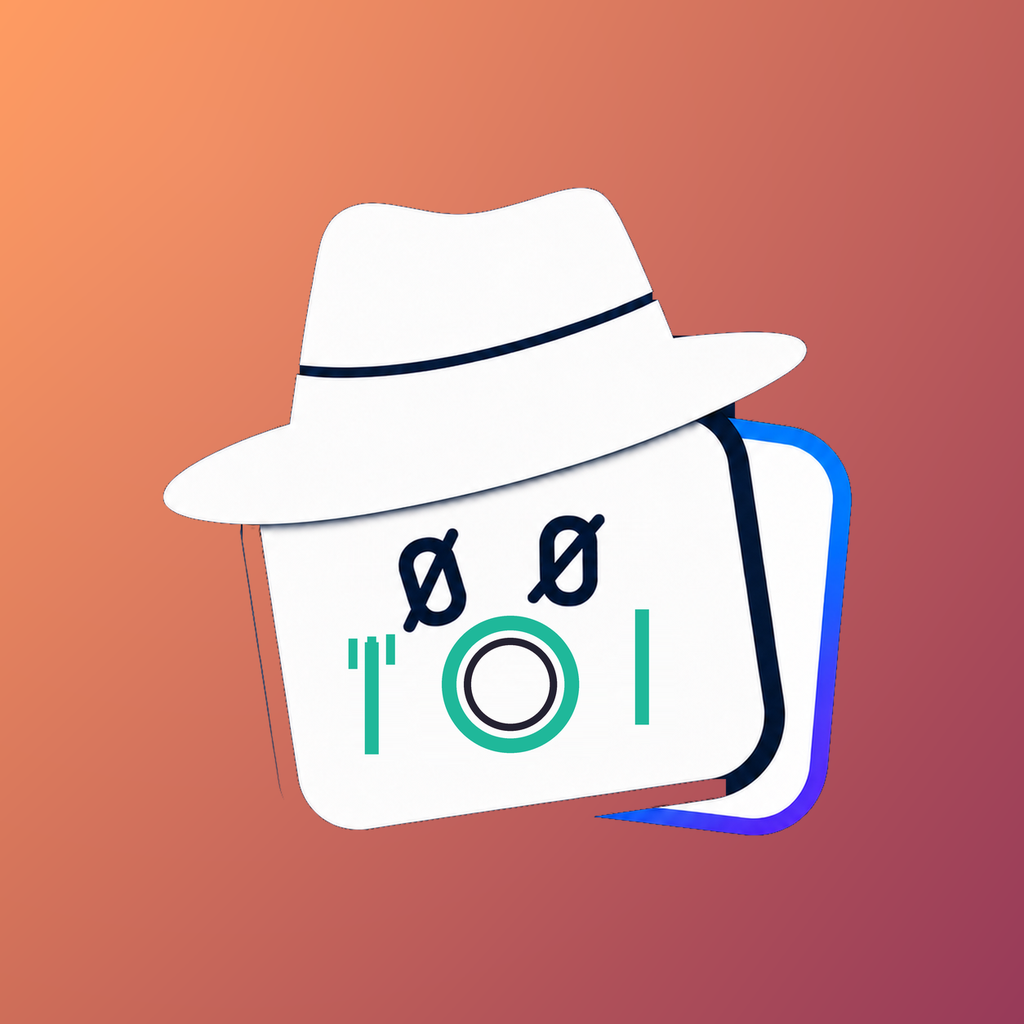
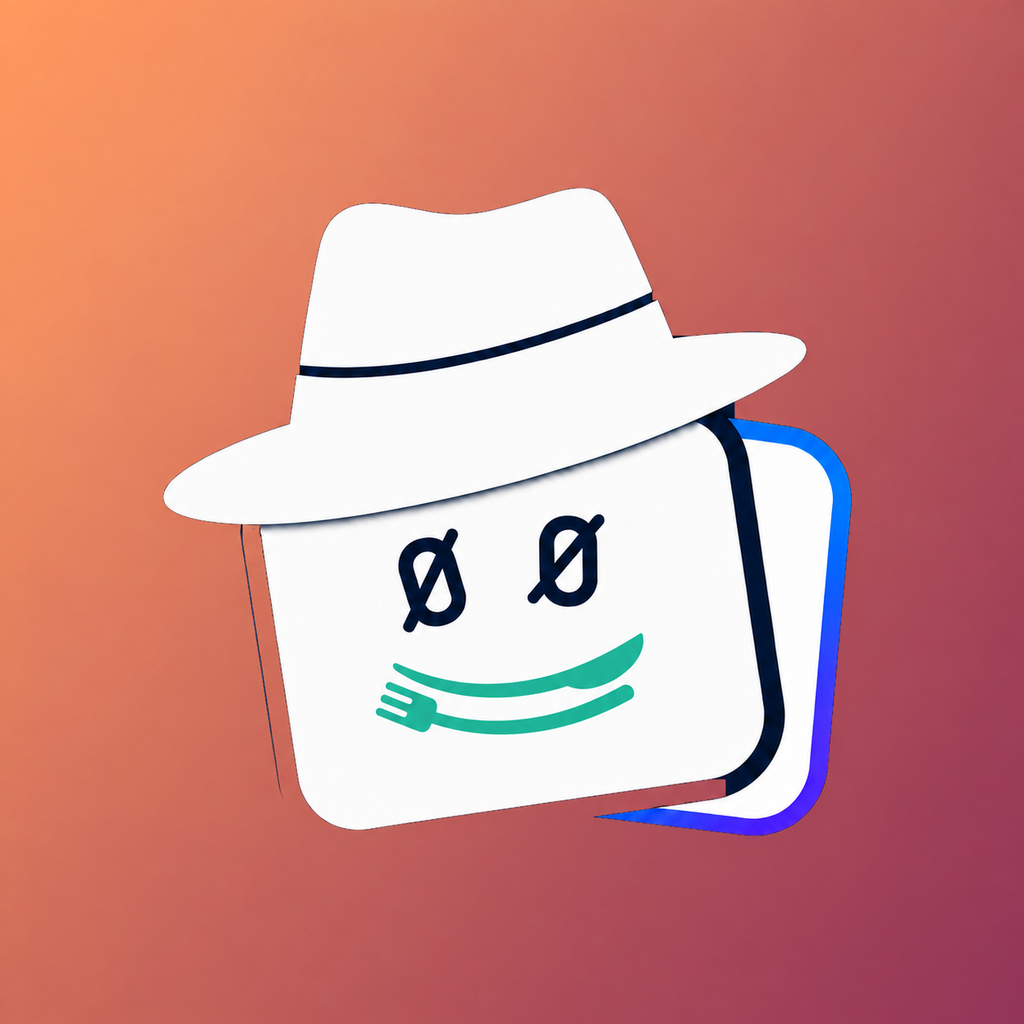
Adopt stacked cutlery smile branding

Changed region(s): [[0.3125, 0.5938, 0.6562, 0.75], [0.6875, 0.75, 0.7188, 0.7812], [0.625, 0.7812, 0.6562, 0.8125]]

diff --git a/docs/brand/generate.py b/docs/brand/generate.py
@@ -1,115 +1,35 @@
 #!/usr/bin/env python3
-"""Derive the 00Food identity from Pedro Morais's 00Widget master artwork.
+"""Generate application assets from the approved 00Food master artwork.
 
-Only the chart-shaped mouth is replaced. Keep the source masters in this
-directory so the resulting app icon and wordmarks can be regenerated exactly.
+The stacked cutlery smile is baked into the source masters so regeneration
+preserves the approved icon and its transparent companion exactly.
 """
 
 from __future__ import annotations
 
 from pathlib import Path
 
-from PIL import Image, ImageDraw, ImageFilter, ImageFont, ImageOps
+from PIL import Image, ImageDraw, ImageFont, ImageOps
 
 
 ROOT = Path(__file__).resolve().parents[2]
 BRAND = ROOT / "docs" / "brand"
 SOURCES = BRAND / "sources"
-ICON_SOURCE = SOURCES / "00widget-app-icon-master.png"
-TRANSPARENT_SOURCE = SOURCES / "00widget-mark-transparent-master.png"
+ICON_SOURCE = SOURCES / "00food-app-icon-master.png"
+TRANSPARENT_SOURCE = SOURCES / "00food-mark-transparent-master.png"
 APP_ICON = ROOT / "ios" / "Resources" / "App" / "Assets.xcassets" / "AppIcon.appiconset" / "Icon-1024.png"
 ASSETS = ROOT / "ios" / "Resources" / "App" / "Assets.xcassets"
 
 NAVY = (6, 21, 42)
 BLUE = (31, 139, 255)
 BLUE_DARK = (9, 104, 232)
-TEAL = (31, 184, 154)
 WHITE = (248, 251, 255)
-# 00Widget owns the deep-navy icon field. 00Food uses a brighter violet field
-# so the sibling apps are distinguishable on an iPhone home screen.
-ICON_VIOLET_TOP = (245, 146, 88)
-ICON_VIOLET_BOTTOM = (151, 58, 89)
 FONT = "/System/Library/Fonts/Avenir Next.ttc"
-SCALE = 4
-
-
-def teal_mouth_mask(image: Image.Image) -> Image.Image:
-    """Find only the teal bars; the hat, eyes, card and blue edge stay exact."""
-    mask = Image.new("L", image.size, 0)
-    source = image.convert("RGBA").load()
-    target = mask.load()
-    for y in range(738, 950):
-        for x in range(405, 845):
-            red, green, blue, alpha = source[x, y]
-            if alpha > 50 and green > red + 55 and blue > red + 35 and green > blue - 15:
-                target[x, y] = 255
-    return mask.filter(ImageFilter.MaxFilter(13))
-
-
-def erase_mouth(image: Image.Image, mask: Image.Image) -> Image.Image:
-    """Reconstruct the pale card surface from clean pixels on each side."""
-    result = image.convert("RGBA").copy()
-    pixels = result.load()
-    covered = mask.load()
-    for y in range(738, 950):
-        x = 405
-        while x < 845:
-            if not covered[x, y]:
-                x += 1
-                continue
-            start = x
-            while x < 845 and covered[x, y]:
-                x += 1
-            end = x
-            left = pixels[start - 1, y]
-            right = pixels[end, y]
-            width = end - start + 1
-            for offset, px in enumerate(range(start, end), 1):
-                fraction = offset / width
-                pixels[px, y] = tuple(round(a * (1 - fraction) + b * fraction) for a, b in zip(left, right))
-    return result
-
-
-def food_plate(image: Image.Image) -> Image.Image:
-    high = image.resize((image.width * SCALE, image.height * SCALE), Image.Resampling.LANCZOS)
-    drawing = ImageDraw.Draw(high, "RGBA")
-
-    def point(x: float, y: float) -> tuple[int, int]:
-        return round(x * SCALE), round((y - (x - 450) * 0.115) * SCALE)
-
-    def line(points, fill, width):
-        drawing.line([point(x, y) for x, y in points], fill=fill, width=width * SCALE, joint="curve")
-
-    # A small plate and cutlery replace the 00Widget chart mouth.
-    cx, cy = point(625, 858)
-    outer = 84 * SCALE
-    inner = 57 * SCALE
-    drawing.ellipse((cx-outer, cy-outer, cx+outer, cy+outer), outline=(*TEAL, 255), width=18*SCALE)
-    drawing.ellipse((cx-inner, cy-inner, cx+inner, cy+inner), outline=(*NAVY, 215), width=9*SCALE)
-    line([(455, 787), (455, 924)], (*TEAL, 255), 17)
-    for x in (432, 455, 478):
-        line([(x, 780), (x, 817)], (*TEAL, 255), 11)
-    line([(786, 785), (786, 926)], (*TEAL, 255), 17)
-    return high.resize(image.size, Image.Resampling.LANCZOS)
 
 
 def save_png(image: Image.Image, path: Path, *, opaque: bool = False) -> None:
     path.parent.mkdir(parents=True, exist_ok=True)
     image.convert("RGB" if opaque else "RGBA").save(path, optimize=True)
-
-
-def icon_background(size: tuple[int, int]) -> Image.Image:
-    background = Image.new("RGBA", size)
-    pixels = background.load()
-    width, height = size
-    for y in range(height):
-        for x in range(width):
-            mix = min(1.0, max(0.0, 0.58 * x / width + 0.42 * y / height))
-            glow = max(0.0, 1.0 - ((x - width * 0.2) ** 2 + (y - height * 0.15) ** 2) ** 0.5 / (width * 0.9))
-            color = tuple(round(top * (1 - mix) + bottom * mix + 13 * glow)
-                          for top, bottom in zip(ICON_VIOLET_TOP, ICON_VIOLET_BOTTOM))
-            pixels[x, y] = (*color, 255)
-    return background
 
 
 def wordmark(*, dark_surface: bool, transparent_background: bool = False) -> Image.Image:
@@ -138,14 +58,12 @@ def wordmark(*, dark_surface: bool, transparent_background: bool = False) -> Ima
 
 
 def main() -> None:
-    icon_source = Image.open(ICON_SOURCE).convert("RGBA")
-    transparent_source = Image.open(TRANSPARENT_SOURCE).convert("RGBA")
-    if icon_source.size != (1254, 1254) or transparent_source.size != icon_source.size:
-        raise ValueError("The 00Widget masters must be 1254×1254 and aligned")
-    mask = teal_mouth_mask(transparent_source)
-    transparent = food_plate(erase_mouth(transparent_source, mask))
-    icon = icon_background(icon_source.size)
-    icon.alpha_composite(transparent)
+    icon = Image.open(ICON_SOURCE).convert("RGBA")
+    transparent = Image.open(TRANSPARENT_SOURCE).convert("RGBA")
+    if icon.size != (1254, 1254) or transparent.size != icon.size:
+        raise ValueError("The 00Food masters must be 1254×1254 and aligned")
+    if transparent.getchannel("A").getextrema() != (0, 255):
+        raise ValueError("The transparent master must contain a transparent background")
 
     save_png(icon, BRAND / "app-icon-master.png", opaque=True)
     save_png(transparent, BRAND / "mark-transparent-master.png")

diff --git a/docs/brand/sources/README.md b/docs/brand/sources/README.md
@@ -1,0 +1,15 @@
+# 00Food master artwork
+
+`00food-app-icon-master.png` is the approved option B (the second preview), copied directly from the built-in image generation tool's output. It is the authoritative artwork for the app icon and the in-app mark; the generator only resizes it.
+
+`00food-mark-transparent-master.png` is its transparent companion, also produced with the built-in image generation tool. It is used for the reusable transparent marks. The original 00Widget masters remain as historical references under `00widget-LICENSE`. The two 00Food masters are covered by `../LICENSE`.
+
+## Icon prompt
+
+Use case: precise-object-edit. Asset type: preview-only app icon concept. Input image is the edit target: existing 00Food icon. Edit ONLY the plate, fork, and knife mouth area below the eyes. Remove the plate and existing vertical utensils, cleanly restoring the pale white card surface underneath. Keep the original coral gradient background, exact white fedora shape and hat band, two layered card body silhouette and perspective, blue/purple rim, shadows, scale, placement, and both dark navy slashed-zero eyes absolutely unchanged. Preserve existing teal color for new cutlery and the clean simple flat graphic finish. The new utensils should form a friendly, shallow upward-at-the-corners smile below the eyes, subtly aligned to the tilt of the card. Keep comfortable space below the eyes; the utensil smile should be about the width of both eyes together, smaller than the old plate-plus-cutlery span. No plate, bowl, added face features, text, labels, watermark, or extra objects. Return one square icon, same crop and background as original.
+
+Create a layered cutlery smile: one full-length fork and one full-length knife lying horizontally in two closely spaced parallel shallow U shaped arcs beneath the eyes. The top arc is a slender knife, widened slightly at its right blade end. The lower arc is a slender fork, with three recognizable short tines at its left end. Clearly two separate utensils with a narrow white gap, like a small double-line friendly smile. Keep it compact and subtle, no crossing.
+
+## Transparent companion prompt
+
+Create the transparent-background production companion for this approved icon. Remove coral square background only. Output on the exact same 1254x1254 square canvas, with character preserved in original framing: character bounding box approximately x=200 to1044 and y=230 to1024. Keep the substantial transparent margin above, below and on either side, matching the input. Do NOT zoom the mascot in or recenter it. Preserve all the original artwork, teal stacked fork and knife smile, eye shapes, fedora, two cards, gradients and shading. Perform precise smooth antialiased background extraction: no ragged outlines, no white fringe, no scattered isolated pixels in transparent regions. All background and gaps outside the mascot must be fully transparent. Keep original details and color exactly. The approved square icon should align exactly with this companion when overlaid. No redesign, no text.

diff --git a/docs/brand/README.md b/docs/brand/README.md
@@ -1,7 +1,7 @@
 # 00Food identity
 
-00Food keeps the 00Widget and 00Todo two-card agent, white fedora, slashed-zero eyes, blue edge, and teal accent. A plate and cutlery replace the chart or task-row mouth. A warm coral field distinguishes its icon from its siblings. The wordmark uses the same blue `00` and Avenir Next typography.
+00Food keeps the 00Widget and 00Todo two-card agent, white fedora, slashed-zero eyes, blue edge, and teal accent. Two horizontal, gently curved utensils form a stacked smile: a knife above a fork, with no plate. A warm coral field distinguishes its icon from its siblings. The wordmark uses the same blue `00` and Avenir Next typography.
 
-The generator uses Pedro Morais's approved 00Widget master artwork in `sources/` and produces the app icon, in-app mark, wordmarks, and preview. Run `python3 docs/brand/generate.py` from the repository root. The original masters and derived assets have separate licenses in this directory.
+The generator uses the approved 00Food masters in `sources/` and produces the app icon, in-app mark, transparent marks, wordmarks, and preview. The icon master is the selected stacked-smile preview; its transparent companion was created with the built-in image generation tool. Both are saved here so regeneration preserves the approved artwork. Run `python3 docs/brand/generate.py` from the repository root. The original 00Widget reference masters remain in `sources/` under their separate license; the 00Food masters and derived assets use this directory's brand license.
 
 ![00Food brand preview](brand-preview.png)
